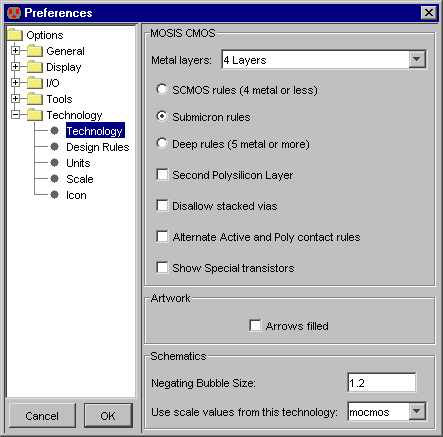
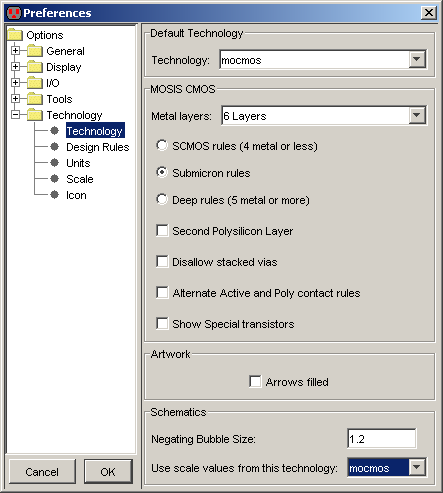
manual updated: Default tech in preferences
git-svn-id: https://svn.java.net/svn/electric~svn/trunk@1791 b64ed6c1-75a8-e629-b1da-d0dae74a743a

Changed region(s): [[0.0, 0.0, 0.9977, 0.476], [0.3228, 0.4462, 0.9977, 1.0], [0.0, 0.8924, 0.3228, 0.9817]]

diff --git a/srcj/com/sun/electric/tool/user/help/helphtml/chap07-01-02.html b/srcj/com/sun/electric/tool/user/help/helphtml/chap07-01-02.html
@@ -2,7 +2,8 @@
 
 <!-- COMMAND Edit/Info/Describe this Technology -->
 
-When Electric begins, the status area shows the current "Technology".
+When Electric begins, the status area shows the current "Technology" and the 
+default technology can be set in the "Technology" preferences (see below). 
 To work with a different technology,
 use the popup at the top of the component menu.
 Once a choice is made,
